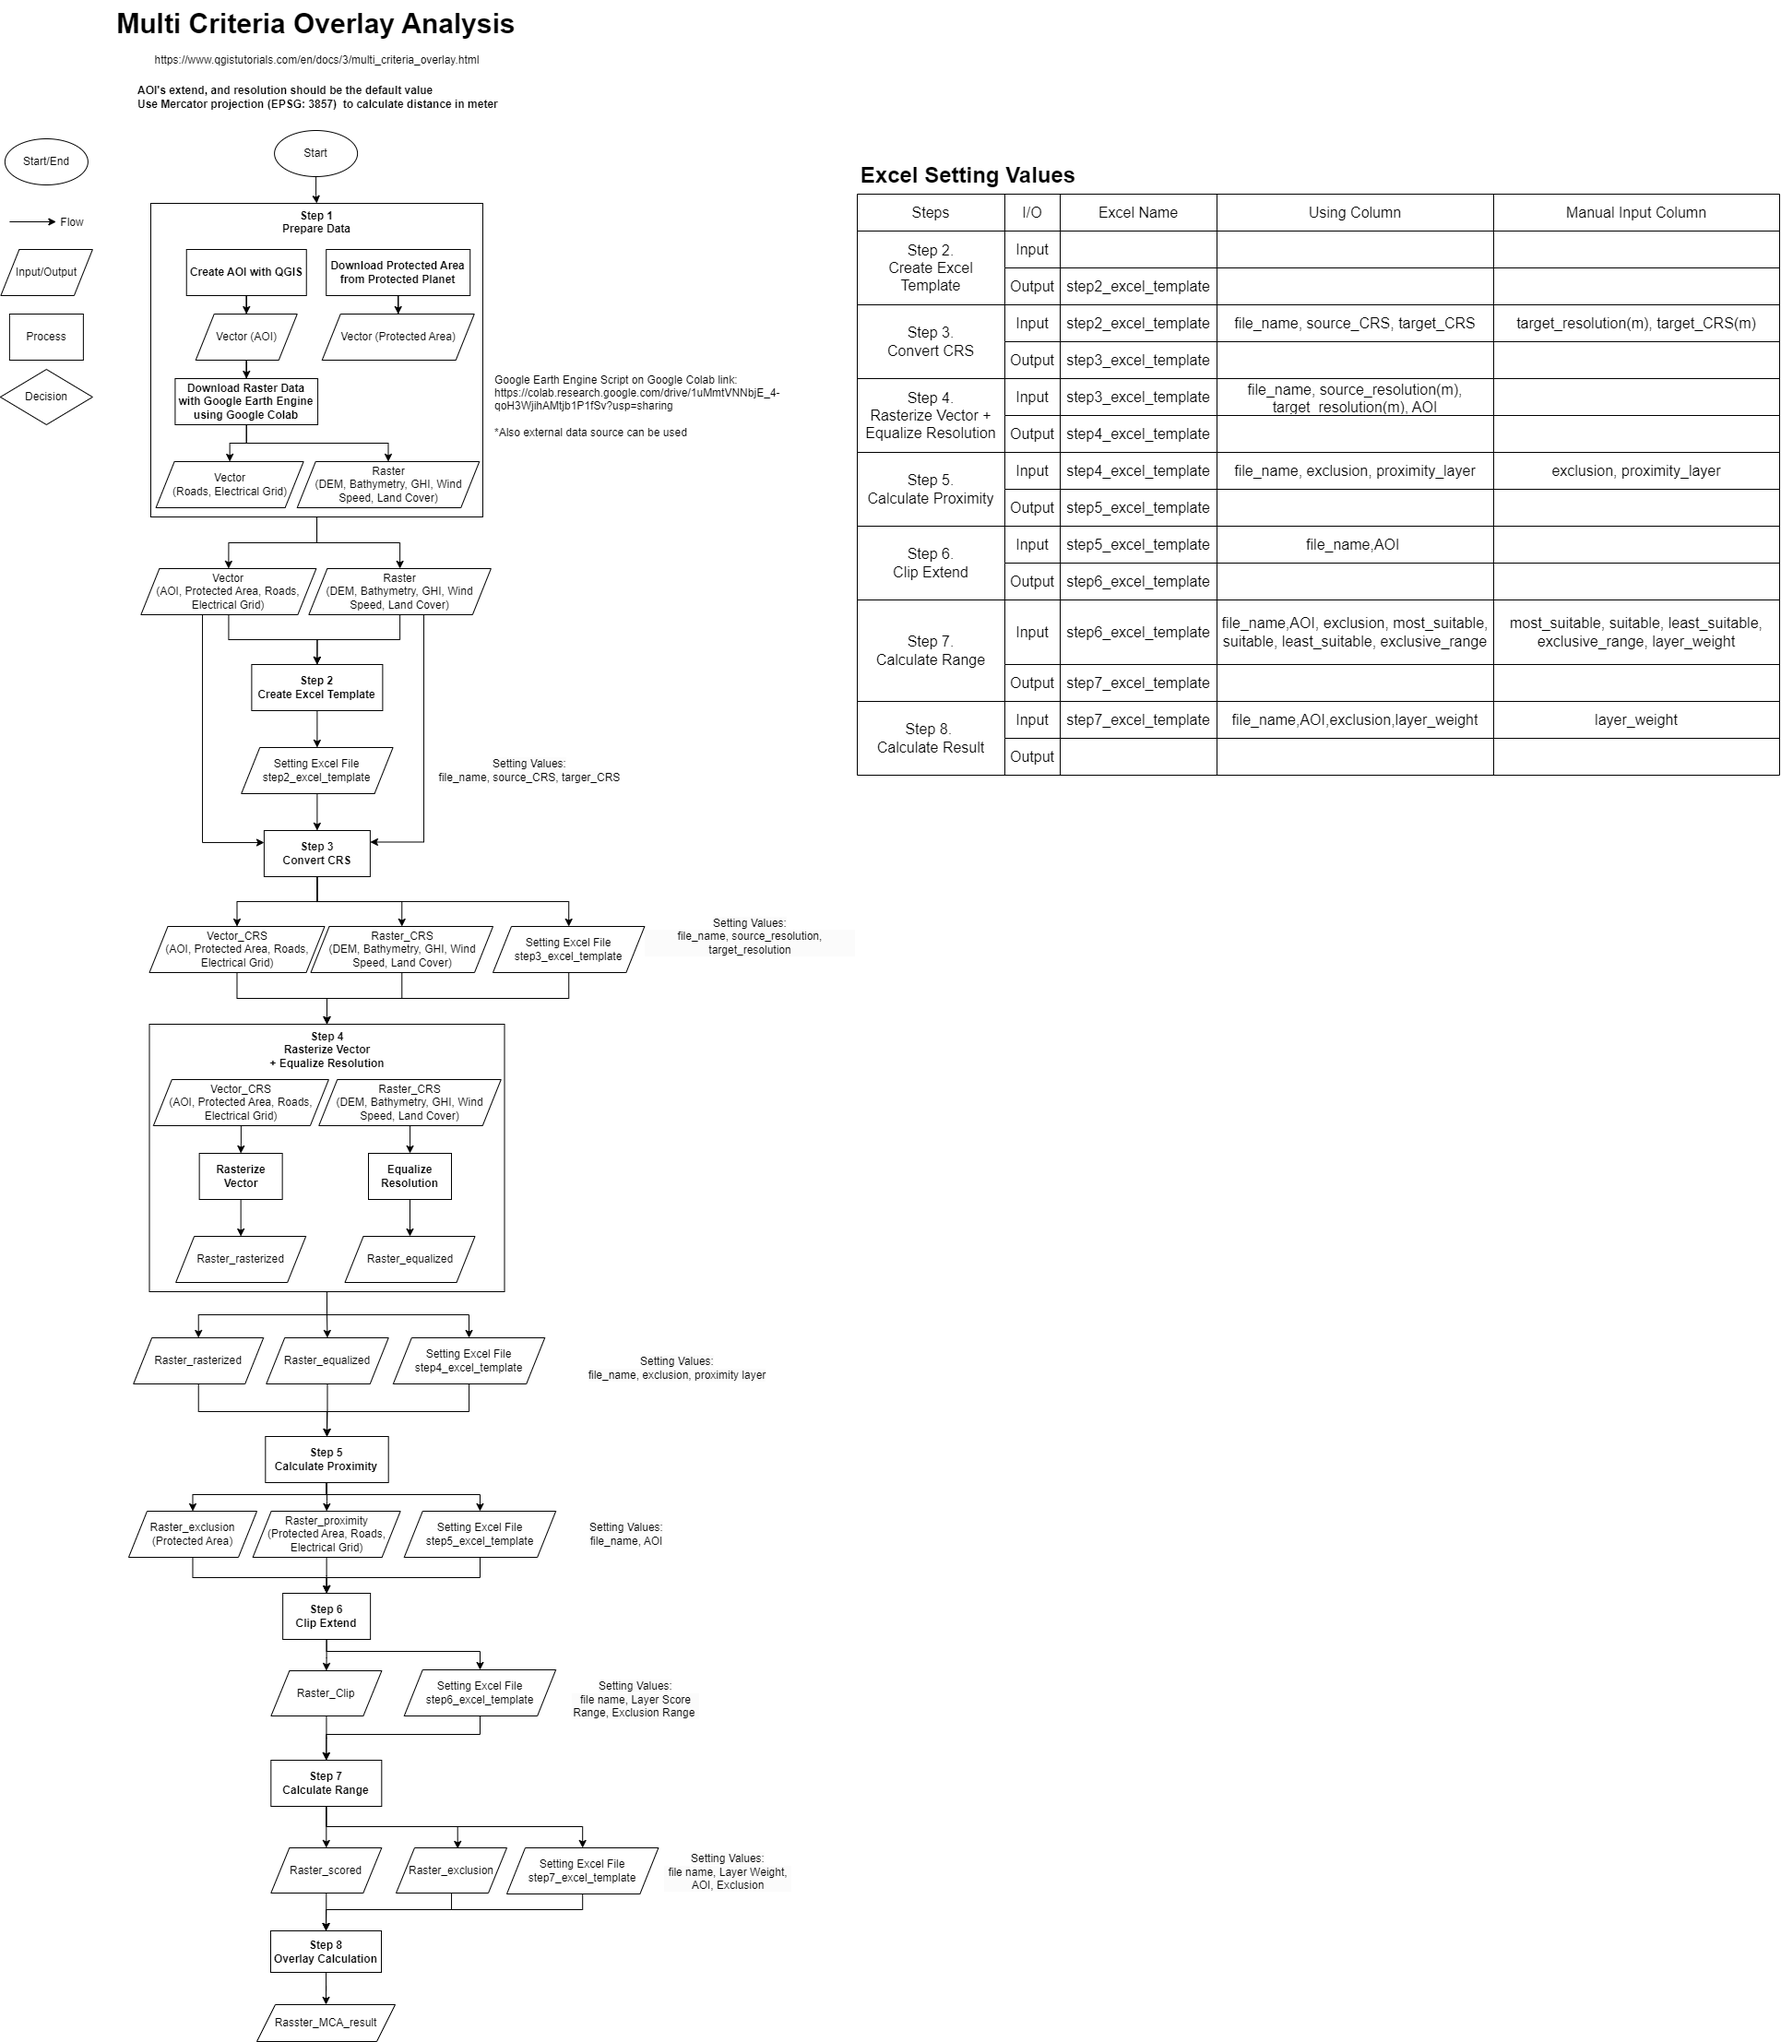
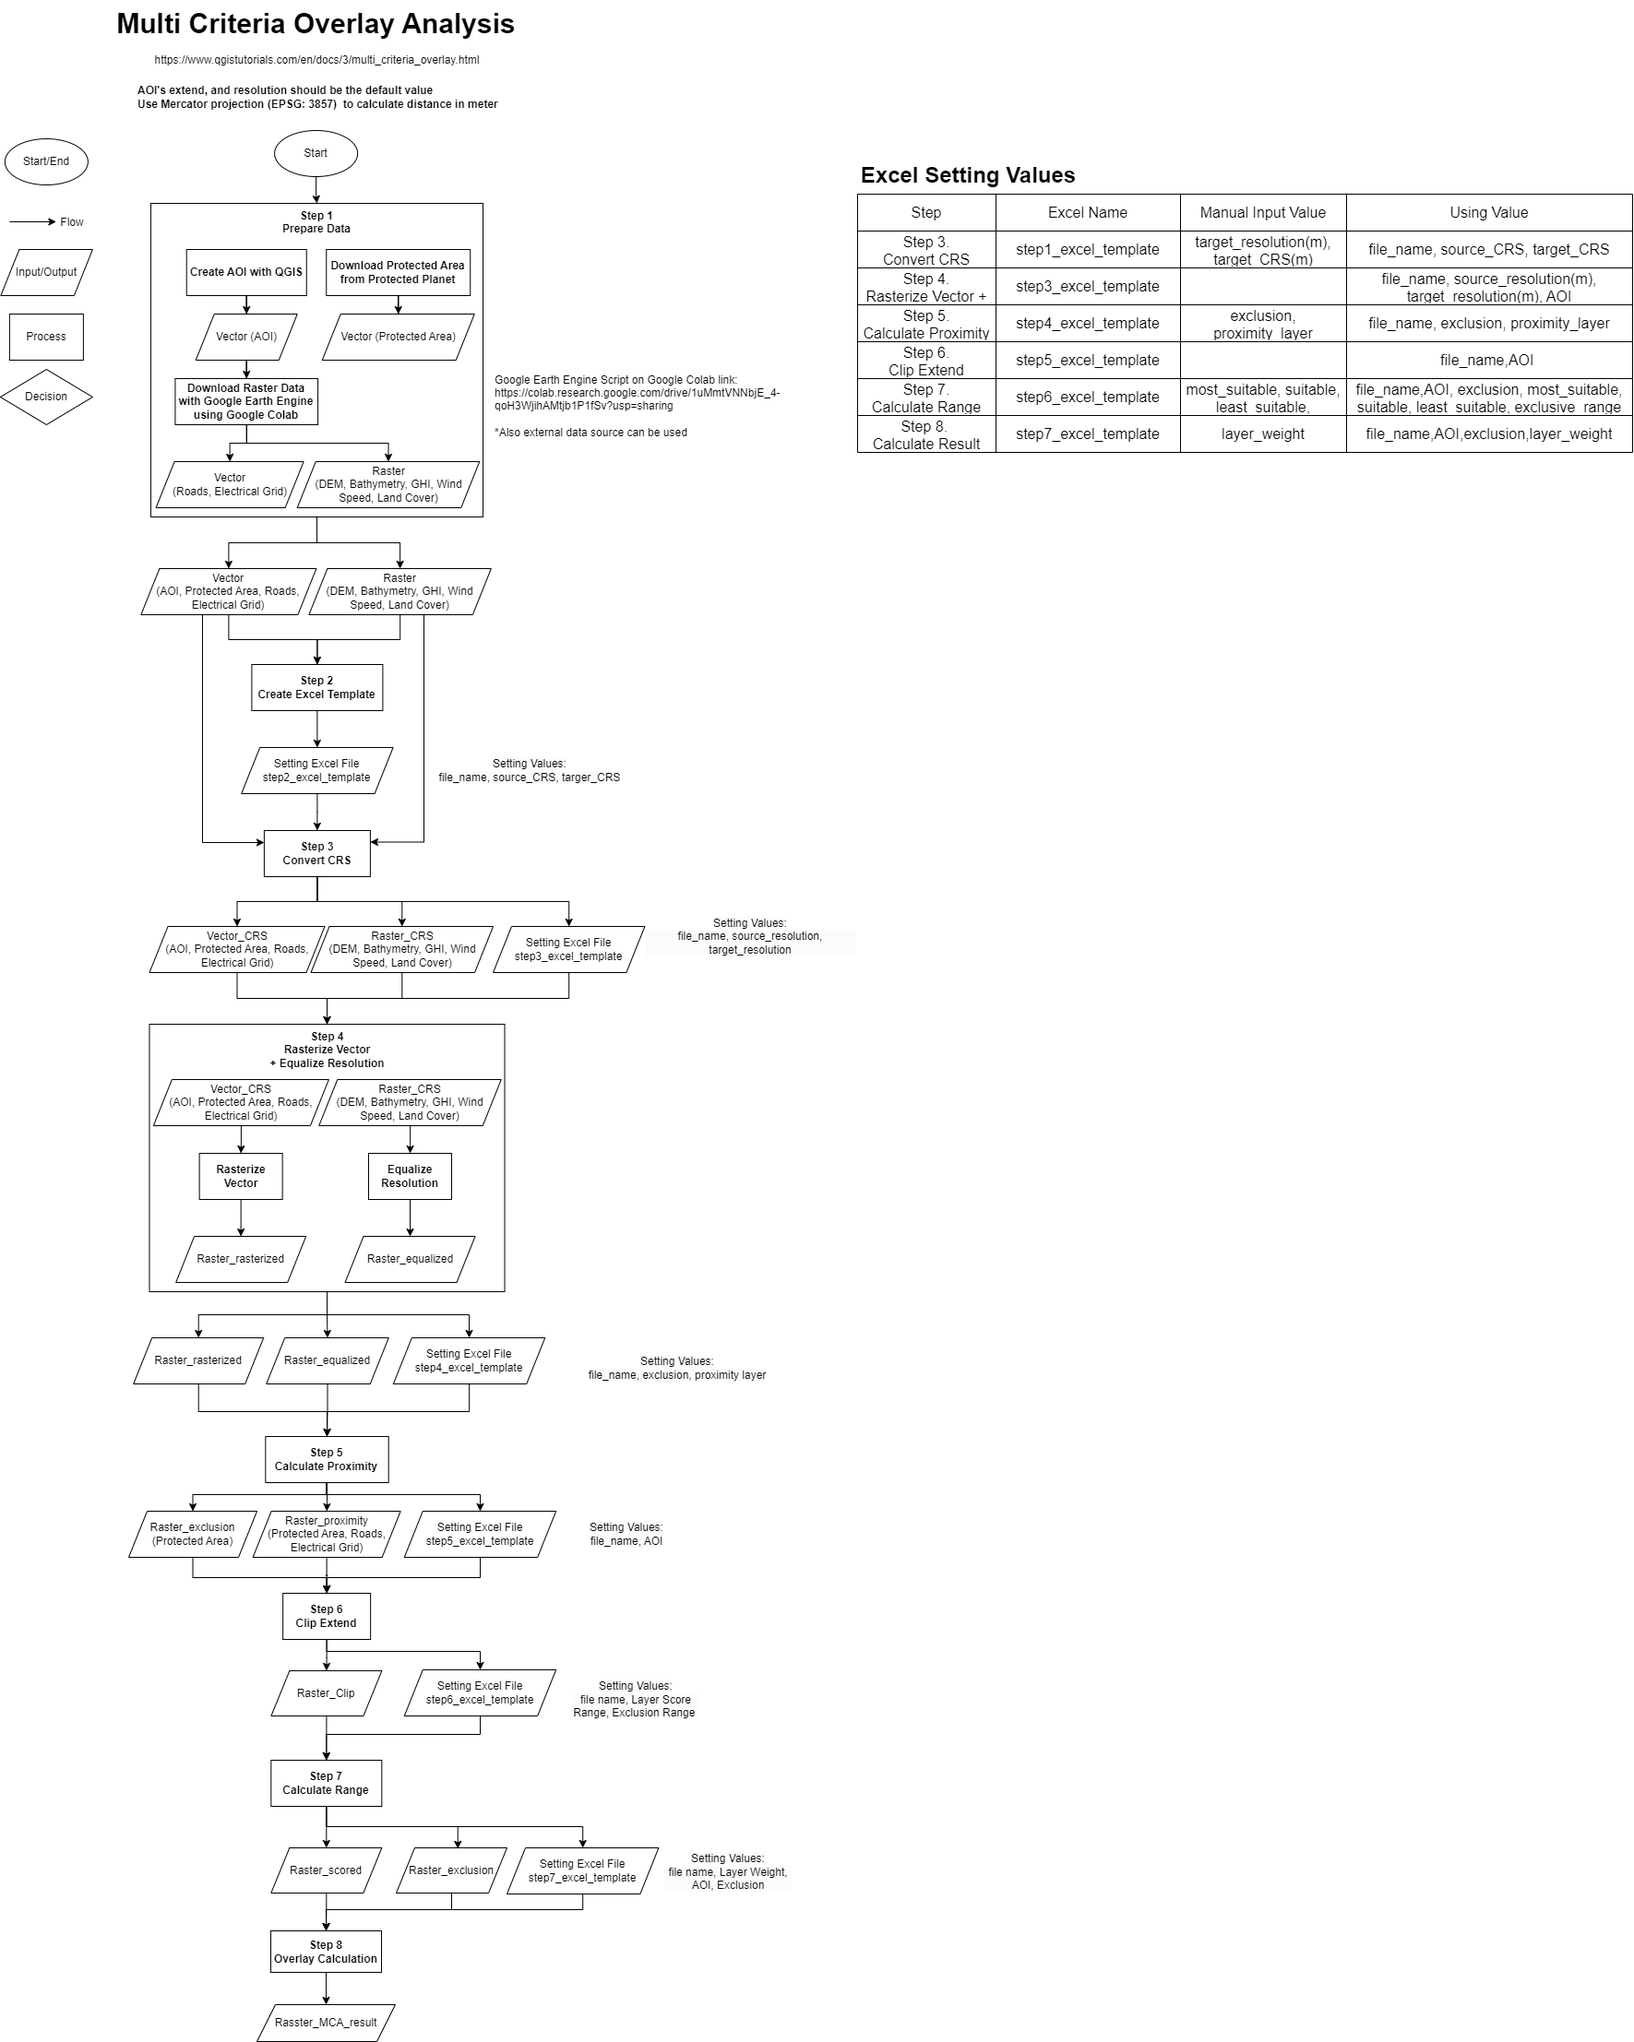
clean code

diff --git a/src/module/step7_calculate_range.py b/src/module/step7_calculate_range.py
@@ -130,10 +130,6 @@ def process_range_calculation(input_path, output_path, input_excel_path, output_
             # Add file info to excel
             processed_files.append({
                 'file_name': output_file_name,
-                'source_resolution(m)': row['source_resolution(m)'],
-                'target_resolution(m)': row['target_resolution(m)'],
-                'source_CRS': row['source_CRS'],
-                'target_CRS': row['target_CRS'],
                 'AOI': row['AOI'],
                 'exclusion': row['exclusion'],
                 'most_suitable': row['most_suitable'],
@@ -170,10 +166,6 @@ def process_range_calculation(input_path, output_path, input_excel_path, output_
                 # Add file info to excel
                 processed_files.append({
                     'file_name': output_file_name,
-                    'source_resolution(m)': row['source_resolution(m)'],
-                    'target_resolution(m)': row['target_resolution(m)'],
-                    'source_CRS': row['source_CRS'],
-                    'target_CRS': row['target_CRS'],
                     'AOI': None,
                     'exclusion': None,
                     'most_suitable': row['most_suitable'],
@@ -202,10 +194,6 @@ def process_range_calculation(input_path, output_path, input_excel_path, output_
                 # Add file info to excel
                 processed_files.append({
                     'file_name': output_file_name,
-                    'source_resolution(m)': row['source_resolution(m)'],
-                    'target_resolution(m)': row['target_resolution(m)'],
-                    'source_CRS': row['source_CRS'],
-                    'target_CRS': row['target_CRS'],
                     'AOI': None,
                     'exclusion': 1,
                     'most_suitable': None,
@@ -252,10 +240,6 @@ def process_range_calculation(input_path, output_path, input_excel_path, output_
                         # GLOBathy 처리된 파일 정보를 processed_files 리스트에 추가
                         processed_files.append({
                             'file_name': output_file_name,
-                            'source_resolution(m)': row['source_resolution(m)'],
-                            'target_resolution(m)': row['target_resolution(m)'],
-                            'source_CRS': row['source_CRS'],
-                            'target_CRS': row['target_CRS'],
                             'AOI': 1,
                             'exclusion': None,
                             'most_suitable': None,
@@ -298,10 +282,6 @@ def process_range_calculation(input_path, output_path, input_excel_path, output_
                         # GLOBathy 처리된 파일 정보를 processed_files 리스트에 추가
                         processed_files.append({
                             'file_name': output_file_name,
-                            'source_resolution(m)': row['source_resolution(m)'],
-                            'target_resolution(m)': row['target_resolution(m)'],
-                            'source_CRS': row['source_CRS'],
-                            'target_CRS': row['target_CRS'],
                             'AOI': 1,
                             'exclusion': None,
                             'most_suitable': None,

diff --git a/src/module/step8_calculate_result.py b/src/module/step8_calculate_result.py
@@ -10,12 +10,12 @@ import rasterio
 import numpy as np
 import copy
 
-def process_result_calculation(input_path, output_path, input_excel_path, output_excel_path):
+def process_result_calculation(input_path, output_path, input_excel_path):
     # create panda data frame for each purpose
     df_input_excel = pd.read_excel(input_excel_path)
 
     # Filter rows where are AOI, exclusion
-    scored_df = df_input_excel[(df_input_excel['AOI'] == 1) | (df_input_excel['exclusion'] != 1)]
+    scored_df = df_input_excel[(df_input_excel['AOI'] != 1) | (df_input_excel['exclusion'] != 1)]
 
     # Calculate 'layer_weight_rate' column
     df_input_excel['layer_weight_rate'] = (df_input_excel['layer_weight'] / scored_df['layer_weight'].sum()).round(3)
@@ -80,8 +80,7 @@ def main():
     output_path = r'data\\step8\\'
     setting_excel_path = r'data\\setting_excel\\'
     input_excel_path = setting_excel_path + r'step7_excel_template.xlsx'
-    output_excel_path = setting_excel_path + r'step8_excel_template.xlsx'
-    process_result_calculation(input_path, output_path, input_excel_path, output_excel_path)
+    process_result_calculation(input_path, output_path, input_excel_path)
 
 if __name__ == "__main__":
     main()
